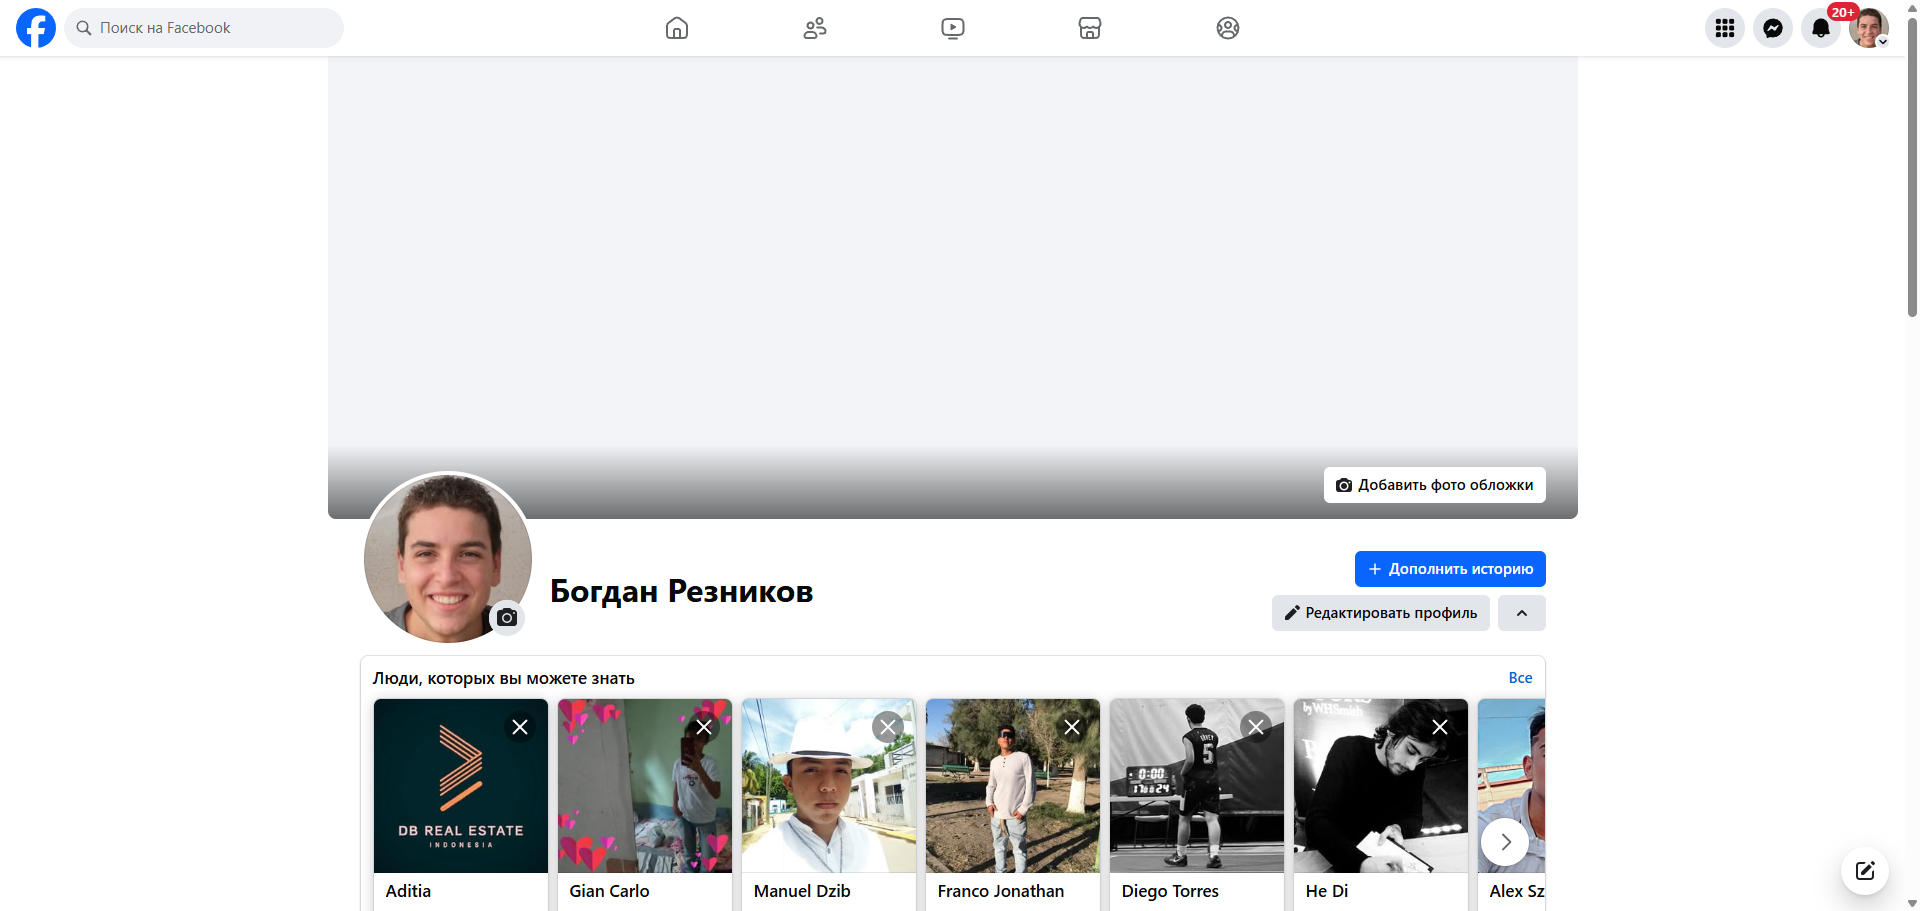
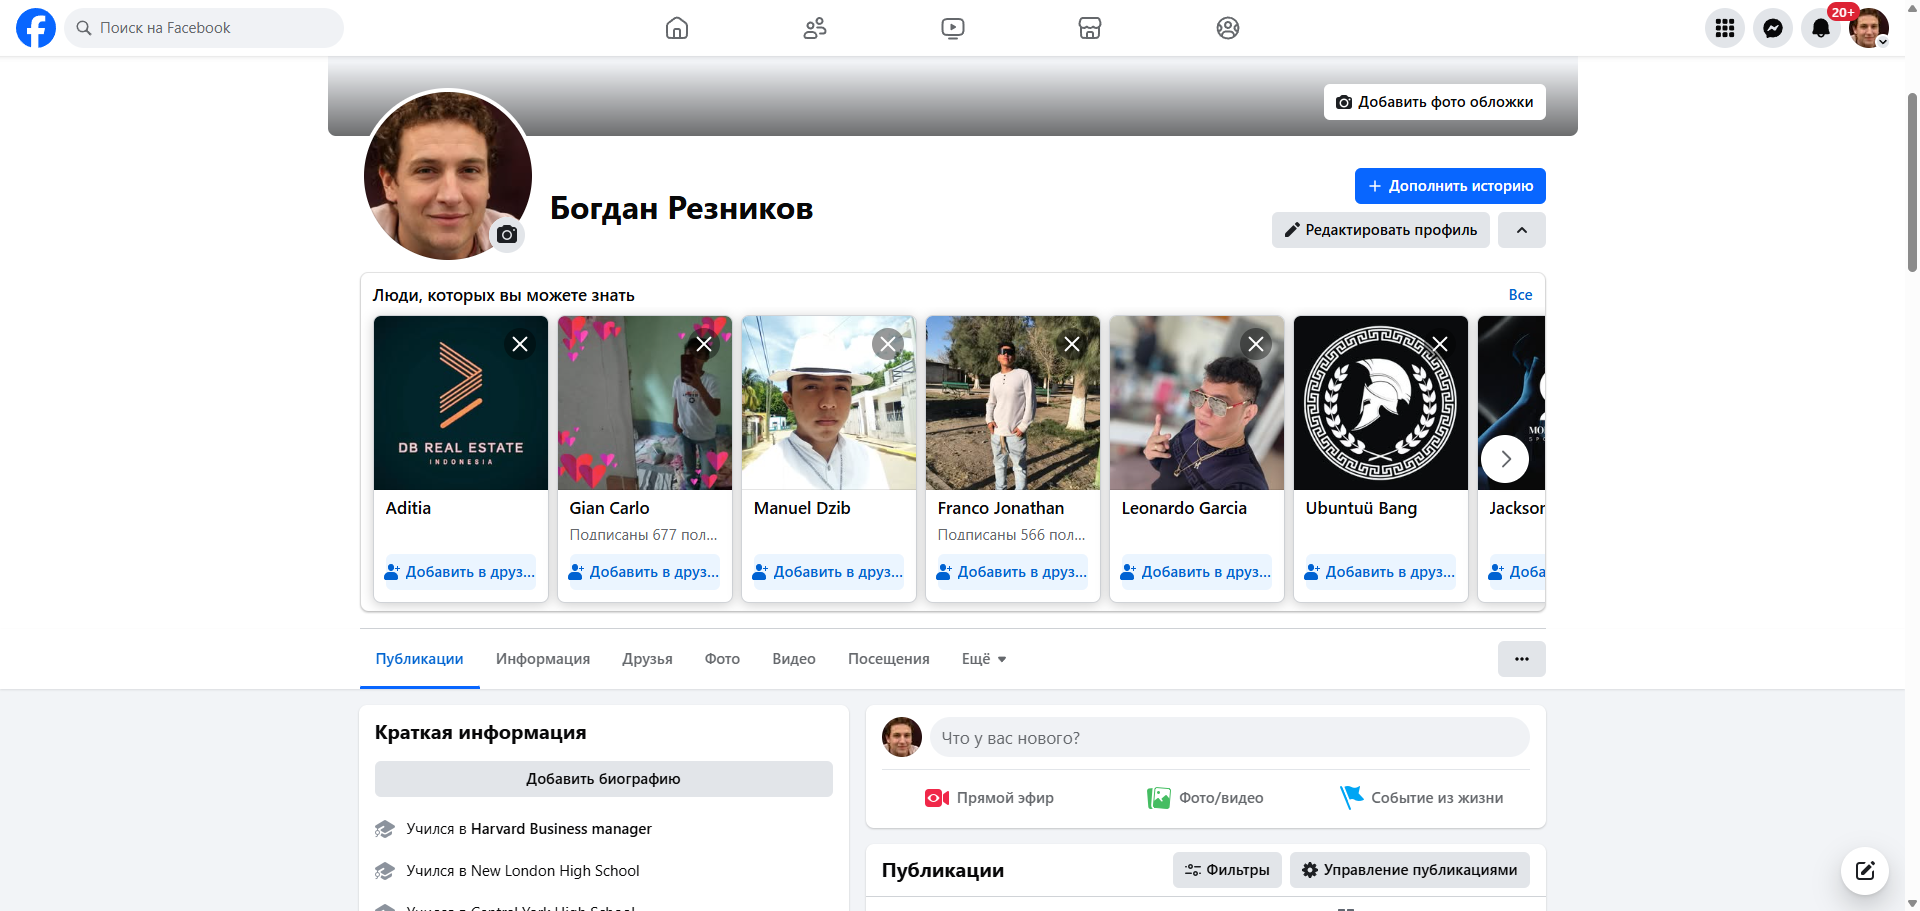
Ава сохраняется на сайте
Теперь аватарка сохраняется на карточке профиля

diff --git a/frontend/src/components/AvatarUploader.jsx b/frontend/src/components/AvatarUploader.jsx
@@ -7,11 +7,15 @@ import { faCamera } from '@fortawesome/free-solid-svg-icons';
 import './AvatarUploader.css';
 
 const STORAGE_KEY_PREFIX = 'avatar_upload_';
+const STORAGE_KEY_PREVIEW = 'avatar_preview_';
 const MAX_PROGRESS = 95; // Максимальный процент до завершения загрузки
 
 const AvatarUploader = ({ accountId, avatarUrl, className }) => {
   const dispatch = useDispatch();
-  const [previewUrl, setPreviewUrl] = useState(null);
+  // Используем localStorage для сохранения URL предпросмотра
+  const [previewUrl, setPreviewUrl] = useState(() => {
+    return localStorage.getItem(`${STORAGE_KEY_PREVIEW}${accountId}`) || null;
+  });
   const fileInputRef = useRef(null);
   const { avatarLoadingIds } = useSelector(state => state.accounts);
   const { list: accounts } = useSelector(state => state.accounts);
@@ -27,6 +31,15 @@ const AvatarUploader = ({ accountId, avatarUrl, className }) => {
 
   // Определяем, загружается ли аватар для текущего аккаунта
   const isLoading = avatarLoadingIds.includes(accountId);
+
+  // Обновляем localStorage при изменении previewUrl
+  useEffect(() => {
+    if (previewUrl) {
+      localStorage.setItem(`${STORAGE_KEY_PREVIEW}${accountId}`, previewUrl);
+    } else {
+      localStorage.removeItem(`${STORAGE_KEY_PREVIEW}${accountId}`);
+    }
+  }, [previewUrl, accountId]);
 
   // Обновляем localStorage при изменении прогресса
   useEffect(() => {
@@ -65,32 +78,15 @@ const AvatarUploader = ({ accountId, avatarUrl, className }) => {
       const timer = setTimeout(() => {
         setLocalLoading(false);
         setProgress(0);
-        // Очищаем localStorage
+        // Очищаем localStorage для прогресса и загрузки
         localStorage.removeItem(`${STORAGE_KEY_PREFIX}${accountId}`);
         localStorage.removeItem(`${STORAGE_KEY_PREFIX}${accountId}_loading`);
+        // НЕ очищаем превью, т.к. оно должно оставаться до следующей загрузки
       }, 800);
       
       return () => clearTimeout(timer);
     }
   }, [isLoading, localLoading, accountId, progress]);
-
-  // Очистка URL при размонтировании компонента
-  useEffect(() => {
-    return () => {
-      if (previewUrl) {
-        URL.revokeObjectURL(previewUrl);
-      }
-    };
-  }, [previewUrl]);
-
-  // При успешной загрузке аватара сбрасываем предпросмотр
-  useEffect(() => {
-    if (!isLoading && previewUrl) {
-      // Очищаем предпросмотр после успешной загрузки
-      URL.revokeObjectURL(previewUrl);
-      setPreviewUrl(null);
-    }
-  }, [isLoading, previewUrl]);
 
   // Запускаем имитацию прогресса загрузки
   useEffect(() => {
@@ -134,8 +130,18 @@ const AvatarUploader = ({ accountId, avatarUrl, className }) => {
     fileInputRef.current.click();
   };
 
+  // Конвертирует File в base64 строку для сохранения в localStorage
+  const fileToBase64 = (file) => {
+    return new Promise((resolve, reject) => {
+      const reader = new FileReader();
+      reader.readAsDataURL(file);
+      reader.onload = () => resolve(reader.result);
+      reader.onerror = error => reject(error);
+    });
+  };
+
   // Обработчик изменения файла
-  const handleFileChange = (e) => {
+  const handleFileChange = async (e) => {
     const file = e.target.files[0];
     if (!file) return;
 
@@ -153,43 +159,66 @@ const AvatarUploader = ({ accountId, avatarUrl, className }) => {
       return;
     }
 
-    // Создаем временный URL для предпросмотра
-    const objectUrl = URL.createObjectURL(file);
-    setPreviewUrl(objectUrl);
+    try {
+      // Создаем временный URL для предпросмотра
+      const objectUrl = URL.createObjectURL(file);
+      setPreviewUrl(objectUrl);
 
-    // Сохраняем начальный прогресс
-    setProgress(5);
-    localStorage.setItem(`${STORAGE_KEY_PREFIX}${accountId}`, '5');
-    localStorage.setItem(`${STORAGE_KEY_PREFIX}${accountId}_loading`, 'true');
+      // Сохраняем начальный прогресс
+      setProgress(5);
+      localStorage.setItem(`${STORAGE_KEY_PREFIX}${accountId}`, '5');
+      localStorage.setItem(`${STORAGE_KEY_PREFIX}${accountId}_loading`, 'true');
 
-    // Вызываем экшн смены аватарки
-    dispatch(changeAvatar({ id: accountId, file }))
-      .unwrap()
-      .then((result) => {
-        toast.success('Аватарка обновлена');
-        
-        // Если получен URL аватарки с сервера
-        if (result && result.avatarUrl) {
-          // URL будет обновлен через getCurrentAvatarUrl
-          setPreviewUrl(null); // Сбрасываем локальный предпросмотр
-        }
-        
-        // Обновляем список аккаунтов с сервера для получения актуальных данных
-        dispatch(fetchAccounts());
-      })
-      .catch((error) => {
-        toast.error(error || 'Ошибка при смене аватарки');
-        // Сбрасываем предпросмотр при ошибке
-        setPreviewUrl(null);
-        // Очищаем состояние загрузки и прогресс
-        setLocalLoading(false);
-        setProgress(0);
-        localStorage.removeItem(`${STORAGE_KEY_PREFIX}${accountId}`);
-        localStorage.removeItem(`${STORAGE_KEY_PREFIX}${accountId}_loading`);
-      });
+      // Вызываем экшн смены аватарки
+      dispatch(changeAvatar({ id: accountId, file }))
+        .unwrap()
+        .then((result) => {
+          toast.success('Аватарка обновлена');
+          
+          // Если получен URL аватарки с сервера, мы не сбрасываем превью,
+          // оно останется в localStorage и будет отображаться после перезагрузки страницы
+          
+          // Обновляем список аккаунтов с сервера для получения актуальных данных
+          dispatch(fetchAccounts());
+        })
+        .catch((error) => {
+          toast.error(error || 'Ошибка при смене аватарки');
+          // Сбрасываем предпросмотр при ошибке
+          setPreviewUrl(null);
+          // Очищаем состояние загрузки и прогресс
+          setLocalLoading(false);
+          setProgress(0);
+          localStorage.removeItem(`${STORAGE_KEY_PREFIX}${accountId}`);
+          localStorage.removeItem(`${STORAGE_KEY_PREFIX}${accountId}_loading`);
+          localStorage.removeItem(`${STORAGE_KEY_PREVIEW}${accountId}`);
+        });
+    } catch (error) {
+      console.error('Ошибка при обработке файла:', error);
+      toast.error('Произошла ошибка при обработке файла');
+    }
   };
 
-  // Используем актуальный URL из Redux или предпросмотр
+  // Проверяем, есть ли сохраненный URL из бэкенда и сравниваем время его обновления с временем сохранения локального превью
+  useEffect(() => {
+    const serverAvatarUrl = getCurrentAvatarUrl();
+    
+    // Если на сервере есть аватарка и она содержит timestamp
+    if (serverAvatarUrl && serverAvatarUrl.includes('?t=')) {
+      try {
+        // Извлекаем timestamp из URL
+        const serverTimestamp = parseInt(serverAvatarUrl.split('?t=')[1], 10);
+        
+        // Если есть локальное превью и timestamp сервера новее, очищаем локальное превью
+        if (previewUrl && serverTimestamp > 0) {
+          setPreviewUrl(null);
+        }
+      } catch (e) {
+        console.error('Ошибка при обработке timestamp аватара:', e);
+      }
+    }
+  }, [accounts, accountId]);
+
+  // Используем актуальный URL из Redis, localStorage либо с сервера
   const displayUrl = previewUrl || getCurrentAvatarUrl();
 
   return (
@@ -224,8 +253,8 @@ const AvatarUploader = ({ accountId, avatarUrl, className }) => {
                 className="avatar-image" 
                 onError={() => {
                   // Если изображение не загружается, показываем плейсхолдер
-                  setPreviewUrl(null);
                   console.error("Ошибка загрузки изображения:", displayUrl);
+                  // НЕ сбрасываем previewUrl при ошибке загрузки, чтобы сохранить попытки
                 }}
               />
             ) : (
